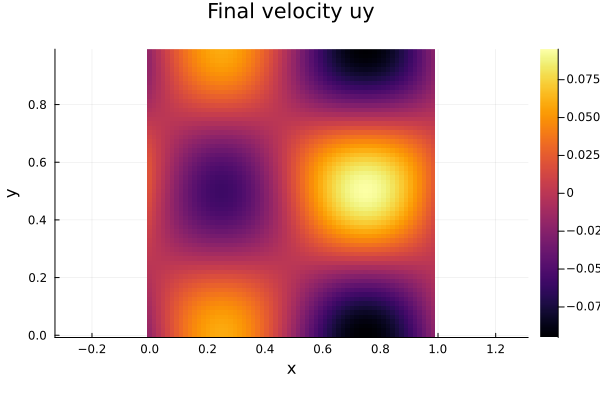
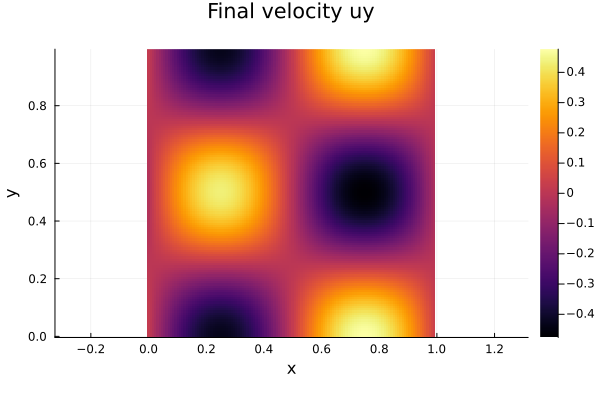
Code updated w/ NonLinearSolve.jl rm CTS

diff --git a/README.md b/README.md
@@ -1,9 +1,8 @@
 # EulerAP — README
 
 This repository contains a compact 2D relaxation-Euler example implemented in
-`relaxation_euler_2d.jl` using ClimaTimeSteppers for IMEX integration. The
-script is intentionally minimal and uses a finite-volume spatial discretization
-on the periodic domain $[0,1]\times[0,1]$.
+`relaxation_euler_2d.jl`. The script is intentionally minimal and uses a
+finite-volume spatial discretization on the periodic domain $[0,1]\times[0,1]$.
 
 ## PDE / model
 
@@ -21,7 +20,8 @@ $$
 
 Here $\varepsilon$ is the relaxation parameter (named `eps` in the code). As
 $\varepsilon\to 0$ the pressure term $\rho/\varepsilon$ becomes stiff and the
-right-hand-side relaxation terms become dominant — motivating IMEX splitting.
+right-hand-side relaxation terms become dominant — motivating implicit
+treatment of the stiff terms.
 
 The mixed terms
 
@@ -63,45 +63,30 @@ in the `prob` object returned.
   $|u|+c$, with $c=\sqrt{1/\varepsilon}$ in the model) and $F$ are the
   physical flux components for each conserved field.
 
-- `explicit_part!(du, u, p, t)` — builds the explicit spatial flux
-  divergence contribution (finite-volume flux differences) for all cells and
-  stores it in `du`. It implements periodic boundary conditions by wrapping
-  indices when computing neighbor fluxes in x and y directions.
+ - `implicit_part!(du, u, p, t)` — builds the finite-volume flux-divergence
+   contributions (both x and y interfaces) and accumulates them into `du`.
+   This function is also used inside the backward-Euler residual evaluation
+   so the stiff relaxation source for the momentum components is accounted
+   for when assembling the residual.
 
-- `implicit_part!(du, u, p, t)` — evaluates the stiff relaxation source
-  terms. For this model the only implicit terms are the momentum relaxation
-  terms, implemented as
+ - `initial_condition(x,y)` — returns the initial `(rho, mx, my)` at a point.
+   The example uses smooth sin/cos perturbations so the solver exercise is
+   numerically well-behaved.
 
-  $$\partial_t m_x = -m_x/\varepsilon,\qquad \partial_t m_y = -m_y/\varepsilon,$$
-
-  while the density equation has no implicit source here.
-
-- `wfact!(w,u,p,dtgamma,t)` — fills the matrix/factor (`Wfact`) that the
-  ClimaTimeSteppers Newton solver uses during implicit stage solves. The
-  function is written to accept either a `SparseMatrixCSC` or a `Diagonal`
-  matrix prototype and sets the diagonal entries appropriate for the linear
-  part of the implicit operator (it places `-1` in density diagonal entries
-  and `-(1 + dtgamma/eps)` for momentum entries; `dtgamma` is the method
-  coefficient). This helps the Newton linear solver reuse/initialize factor
-  structure efficiently.
-
-- `initial_condition(x,y)` — returns the initial `(rho, mx, my)` at a point.
-  The example uses smooth sin/cos perturbations so the solver exercise is
-  numerically well-behaved.
-
-- `build_problem(; nx, ny, eps, tspan)` — assembles the flattened initial
-  condition vector `u0`, constructs a Jacobian prototype (`Diagonal` by
-  default for efficiency), constructs `CTS.ODEFunction` and `CTS.ClimaODEFunction`
-  wrappers and returns `(prob, x, y, p)` where `prob` is a `ClimaTimeSteppers`
-  `ODEProblem` ready to solve.
+ - `build_problem(; nx, ny, eps, tspan)` — assembles the flattened initial
+   condition vector `u0`, coordinate vectors `x`, `y`, constructs the
+   `RelaxationParams` (`p`) and a sparse Jacobian prototype (`jac_prototype`)
+   and returns `(u0, x, y, p, jac_prototype)`.
 
 ## Time integrator setup
 
-- The code constructs an IMEX algorithm using `CTS.IMEXAlgorithm(CTS.ARS343(),
-  CTS.NewtonsMethod(...))`. This picks an ARS(3,4,3)-type IMEX scheme for
-  time-discretization; the stiff substep is solved with a Newton method
-  (`NewtonsMethod`). The Jacobian template (`jac_prototype`) and `Wfact`
-  are provided so ClimaTimeSteppers can prepare linear solvers efficiently.
+The implementation uses an implicit backward-Euler time-stepping handled via
+the `NonlinearSolve` ecosystem. The function `solve_backward_euler` builds a
+`NonlinearProblem` around the residual implemented in
+`backward_euler_residual!` and solves each implicit step with a
+Newton-style method (`NewtonRaphson`) using `AutoForwardDiff` for Jacobian
+information. A fixed step size `dt` is used by default; the solver advances
+until the final time in `tspan`.
 
 ## I/O / plotting
 